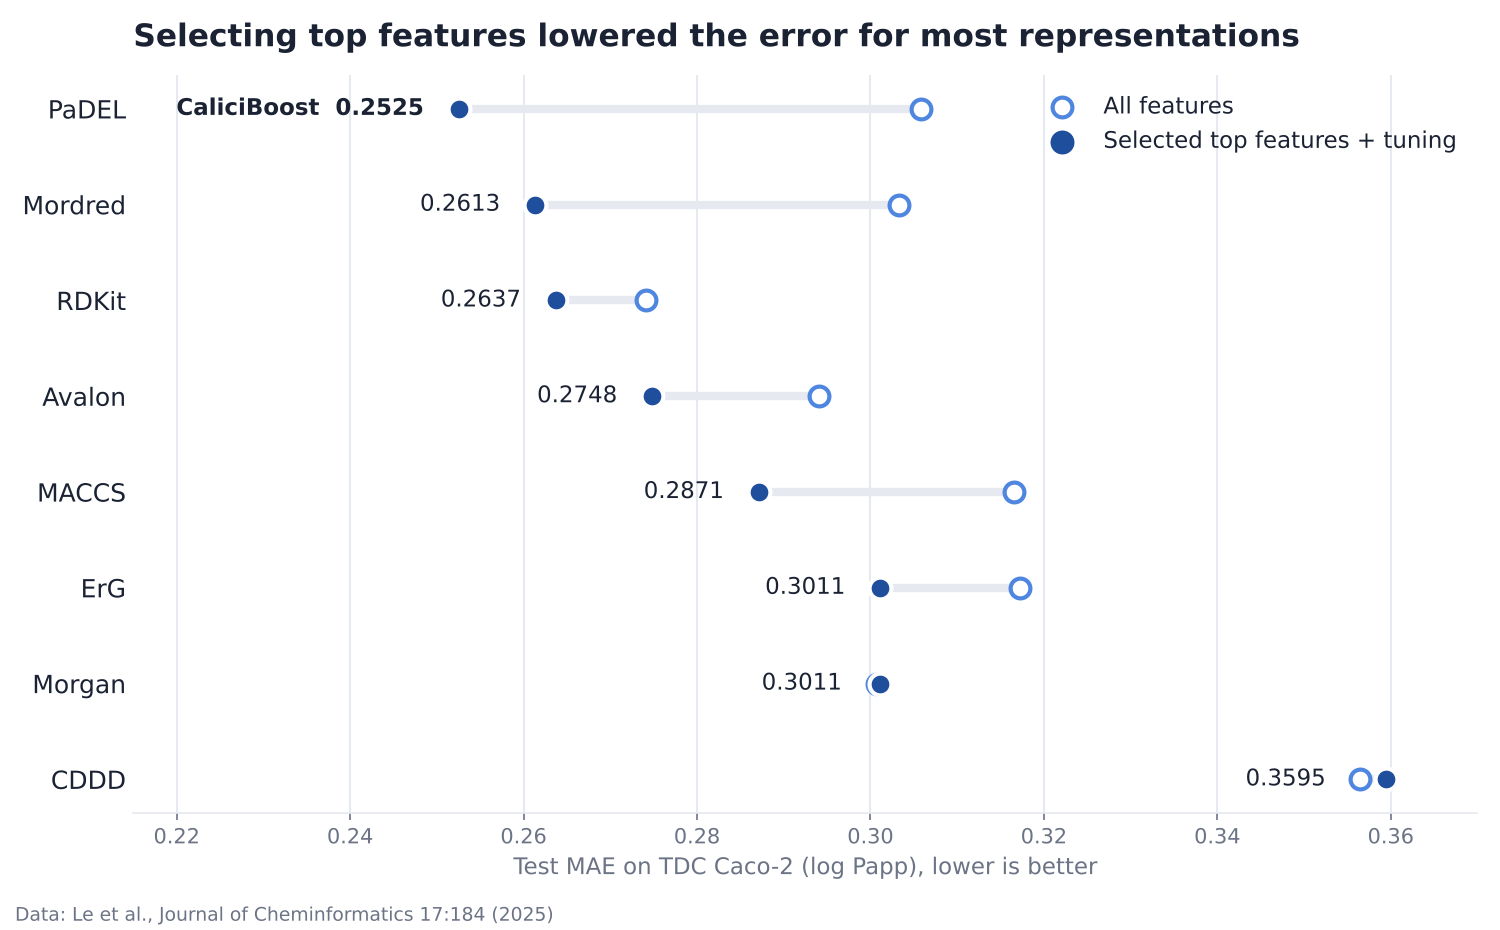
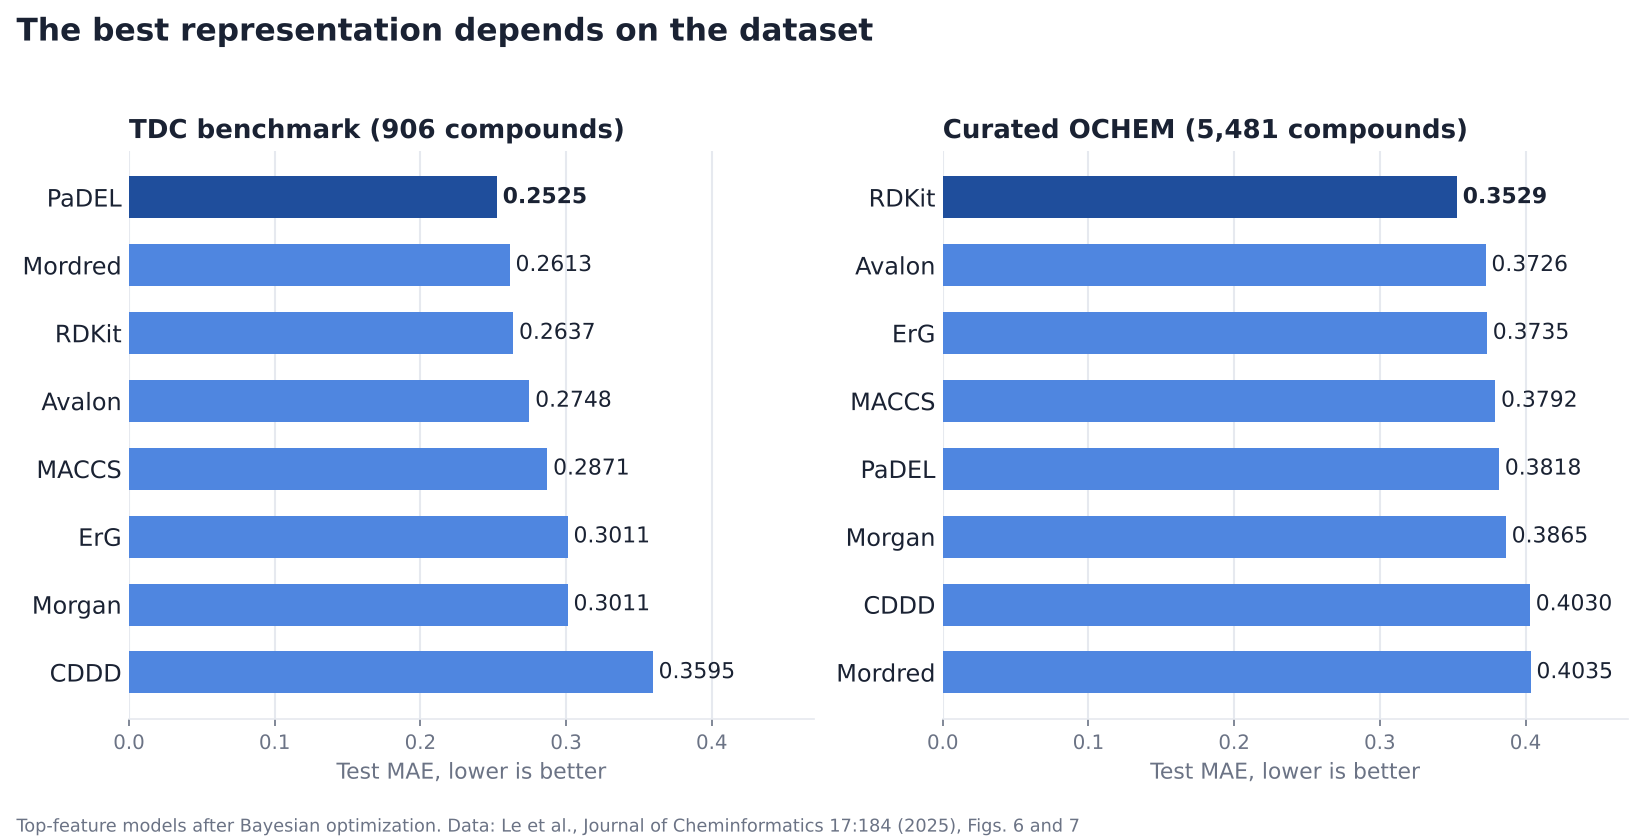
Align CaliciBoost post with the published article only
Every number and claim now comes from the published PDF; the chart
shows the top-feature MAE values printed in Figs. 6 and 7.

Claude-Session: https://claude.ai/code/session_0179r2amME2Rv6arAZtmj1vw

diff --git a/_posts/2026-10-26-caliciboost-molecular-representations.md b/_posts/2026-10-26-caliciboost-molecular-representations.md
@@ -7,9 +7,9 @@ tags: admet cheminformatics machine-learning publications
 categories: research
 ---
 
-Before a drug candidate can work as a pill, it has to cross the gut wall. One of the standard lab tests for this is the Caco-2 permeability assay, which measures how fast a compound passes through a layer of human intestinal cells. It is useful but slow and costly, so predicting it from structure alone is a common early filter in drug discovery.
+An oral drug has to be absorbed through the intestine before it can work. Caco-2 cell permeability is a widely used in vitro proxy for this intestinal absorption, and predicting it well from structure helps prioritize compounds and saves both time and cost in ADMET screening.
 
-In [CaliciBoost](https://doi.org/10.1186/s13321-025-01137-7) (_Journal of Cheminformatics_, 2025), we asked a simple question that is often skipped: before choosing a model, which way of describing a molecule to the model works best for this task?
+Many models have been built for this task, but most studies focus on a limited set of features or a single modeling approach. In [CaliciBoost](https://doi.org/10.1186/s13321-025-01137-7) (_Journal of Cheminformatics_, 2025), we instead compared a wide range of molecular representations systematically, to see which way of describing a molecule works best for Caco-2 permeability prediction.
 
 ## The setup
 
@@ -19,28 +19,28 @@ We compared eight molecular representations, from fingerprints to descriptor set
 - **Descriptor sets:** RDKit descriptors, PaDEL, Mordred
 - **Learned embedding:** CDDD
 
-Each representation went through the same pipeline: AutoML training (AutoGluon), feature importance with permutation importance and SHAP, retraining on the top-ranked features, and Bayesian hyperparameter optimization. Keeping the pipeline fixed meant that differences in error came from the representation, not from tuning effort.
+Each representation went through the same pipeline: AutoML training (AutoGluon), feature importance with permutation importance and SHAP, retraining on the top-ranked features, and Bayesian hyperparameter optimization. Using one pipeline for every representation kept the comparison fair.
 
 {% include figure.liquid loading="eager" path="assets/img/blog/caliciboost-workflow.jpg" class="img-fluid rounded z-depth-1" caption="The CaliciBoost workflow: one pipeline, applied to each of the eight representations. Figure from Le et al., <em>J Cheminform</em> 17:184 (2025), <a href='https://creativecommons.org/licenses/by-nc-nd/4.0/'>CC BY-NC-ND 4.0</a>." %}
 
-We used two datasets of different scale. The TDC Caco-2 benchmark has 906 compounds, split by scaffold so that test molecules are structurally different from training ones. We also curated a larger set of 5,481 compounds from OCHEM, keeping only measurements taken under comparable conditions (apical-to-basolateral, pH 7.4, 37 °C).
+We used two datasets that differ in scale and chemical diversity. The TDC Caco-2 benchmark has 906 compounds, with the scaffold-based split provided by TDC, so that test molecules have scaffolds not seen in training. We also curated a set of 5,481 compounds from OCHEM, about five times larger. To reduce experimental variability, we excluded measurements labeled basolateral-to-apical, measured at a pH other than 7.4, or measured at a temperature other than 37 °C, and removed duplicates.
 
 ## What we found
 
-{% include figure.liquid loading="lazy" path="assets/img/blog/caliciboost-mae.png" class="img-fluid rounded z-depth-1" caption="Test error on the TDC Caco-2 benchmark for each representation, before and after feature selection and tuning. Plotted from the values reported in the paper." %}
+{% include figure.liquid loading="lazy" path="assets/img/blog/caliciboost-mae.png" class="img-fluid rounded z-depth-1" caption="Test MAE of the top-feature model for each representation on the two datasets. Values from Figs. 6 and 7 of the paper." %}
 
 Three things stood out to me.
 
-**Classical descriptors won.** PaDEL, Mordred and RDKit descriptors gave the lowest errors. The best model, an XGBoost regressor trained on selected PaDEL descriptors, reached a mean absolute error (MAE) of 0.2525 on the TDC test set. Evaluated under the official TDC protocol over five seeds, it scored 0.2560 ± 0.006 and ranked first on the TDC Caco-2 leaderboard. The learned CDDD embedding came last. For a property driven by physicochemistry, such as size, polarity and hydrogen bonding, descriptors that encode those quantities directly still carry the most signal.
+**Descriptor sets did best on the benchmark.** On TDC, PaDEL, Mordred and RDKit descriptors gave the lowest errors. The best model, an XGBoost regressor trained on selected PaDEL descriptors, reached a mean absolute error (MAE) of 0.2525 on the test set. Evaluated under the official TDC protocol over five seeds, it scored 0.2560 ± 0.006 and ranked first on the TDC Caco-2 leaderboard. The learned CDDD embedding had the highest error on TDC. Among the most influential PaDEL features were physicochemical and autocorrelation descriptors, such as the number of acidic groups (nAcid) and charge- and mass-weighted autocorrelations.
 
-**Feature selection mattered most where there were the most features.** PaDEL and Mordred each provide well over a thousand descriptors. Trained on all of them, they were middling. Trained on a small, selected subset, they moved to the top. More features did not mean more information; past a point, they mostly added noise.
+**Feature selection mattered most for the largest descriptor sets.** PaDEL provides 1,875 descriptors and Mordred more than 1,800. Trained on all of them, PaDEL (MAE 0.3058) and Mordred (0.3033) trailed RDKit descriptors, Morgan and Avalon. After feature selection and tuning, they moved to the top: the final PaDEL model used its 73 most important features. A smaller, well-chosen subset kept or improved accuracy while making the model easier to interpret.
 
-**The dataset changes the ranking.** On the larger and more varied OCHEM set, errors were higher across the board and the order shifted: RDKit descriptors with feature selection did best (MAE 0.3529). A representation that wins on one benchmark is not guaranteed to win on another, which is a good reason to test on more than one dataset before drawing conclusions.
+**The dataset changes the ranking.** On the larger and more diverse OCHEM set, errors were higher for every representation, and the order shifted: RDKit descriptors did best (MAE 0.3529), while PaDEL fell to fifth. A representation that wins on one benchmark is not guaranteed to win on another, which is a good reason to test on more than one dataset before drawing conclusions.
 
 ## What I take from it
 
-The main lesson for me was about where to spend effort. It is tempting to start with the newest architecture. For a small, noisy ADMET endpoint, careful choice of representation and features gave a large share of the gain, with an off-the-shelf AutoML model doing the rest. This shapes how I approach other ADMET tasks now: compare representations under a fixed pipeline first, then decide whether a more complex model is worth it.
+For me, the main lesson was about where to spend effort. It is tempting to start with the newest architecture, but on a data-limited ADMET task, a careful choice of representation and features, combined with an AutoML model, was enough to reach the top of the benchmark. This is how I now approach other ADMET tasks: compare representations under a fixed pipeline first, then decide whether a more complex model is worth it.
 
 The paper is open access, and the code is on [GitHub](https://github.com/Calici/CaliciBoost).
 
-**Citation:** Le HV, Ren W, Kim J, Yun Y, Park YB, Kim YJ, Han BK, Choi I, Park JI, Yun H-Y, Choi J-M. CaliciBoost: Performance-driven evaluation of molecular representations for Caco-2 permeability prediction. _Journal of Cheminformatics_ 17, 184 (2025). [doi:10.1186/s13321-025-01137-7](https://doi.org/10.1186/s13321-025-01137-7)
+**Citation:** Le HV, Ren W, Kim J, Yun Y, Park YB, Kim YJ, Han BK, Choi I, Park J-I, Yun H-y, Choi J-M. CaliciBoost: Performance-driven evaluation of molecular representations for Caco-2 permeability prediction. _Journal of Cheminformatics_ 17, 184 (2025). [doi:10.1186/s13321-025-01137-7](https://doi.org/10.1186/s13321-025-01137-7)
